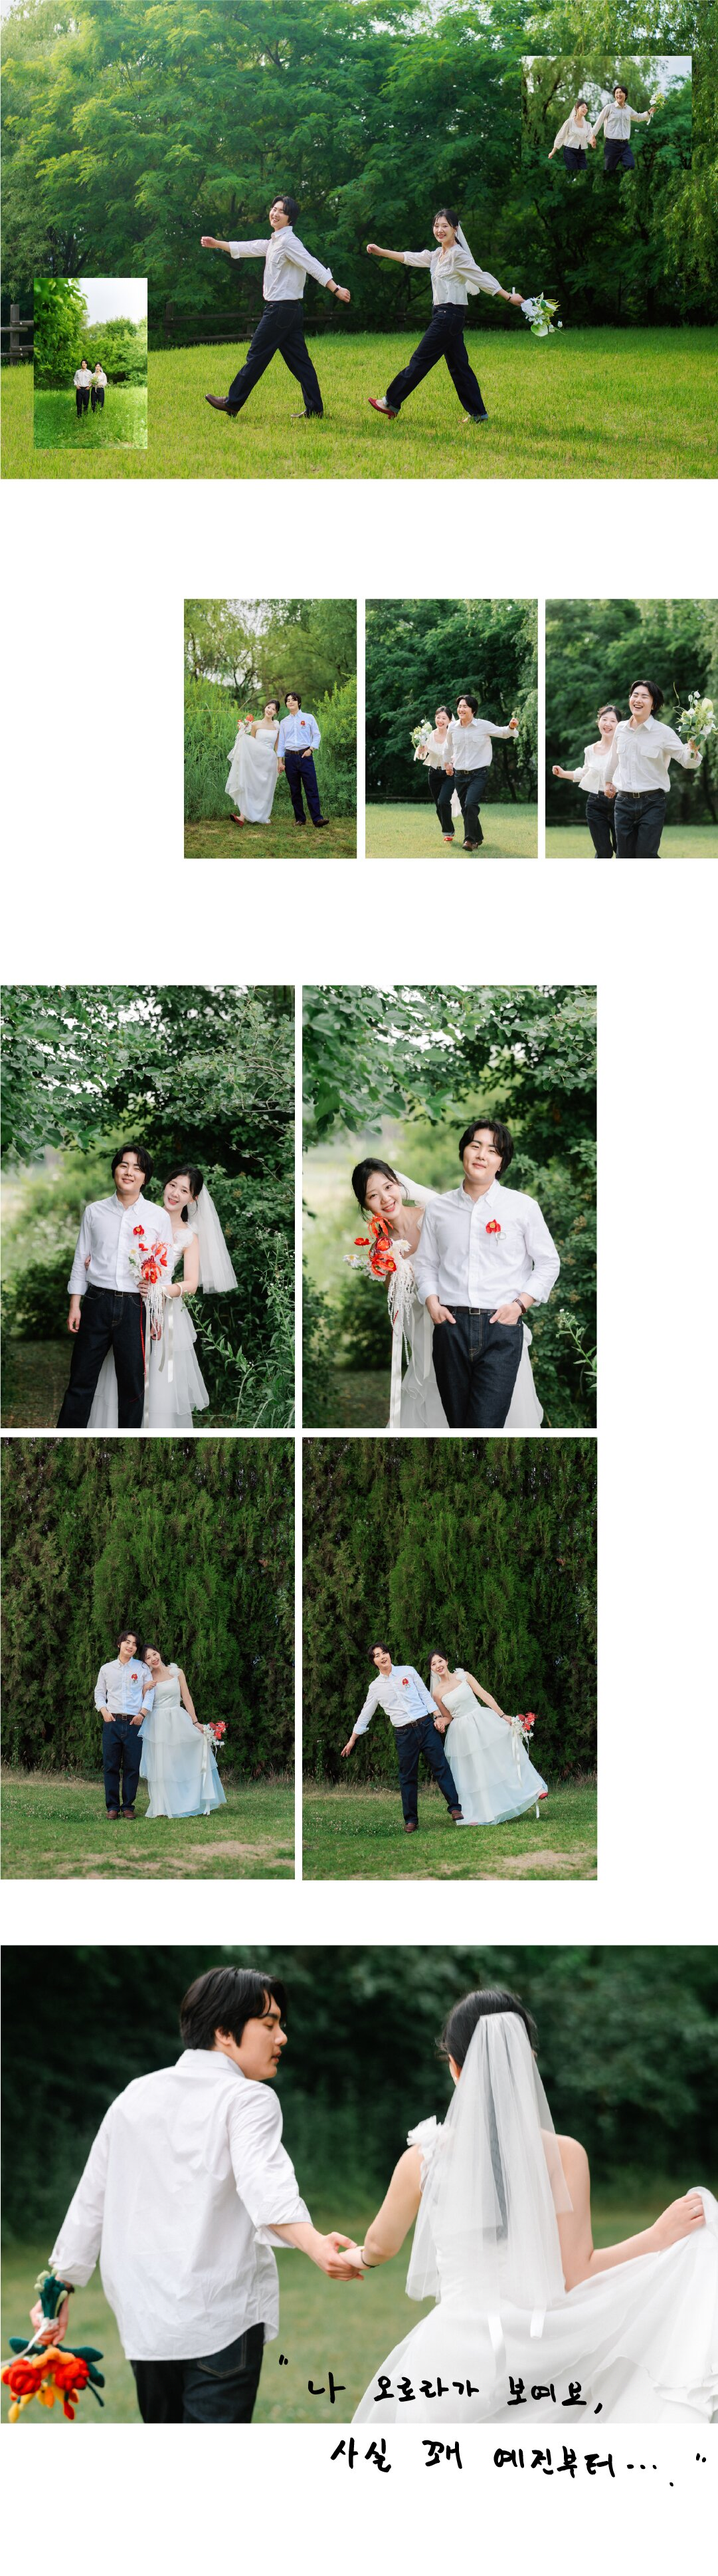
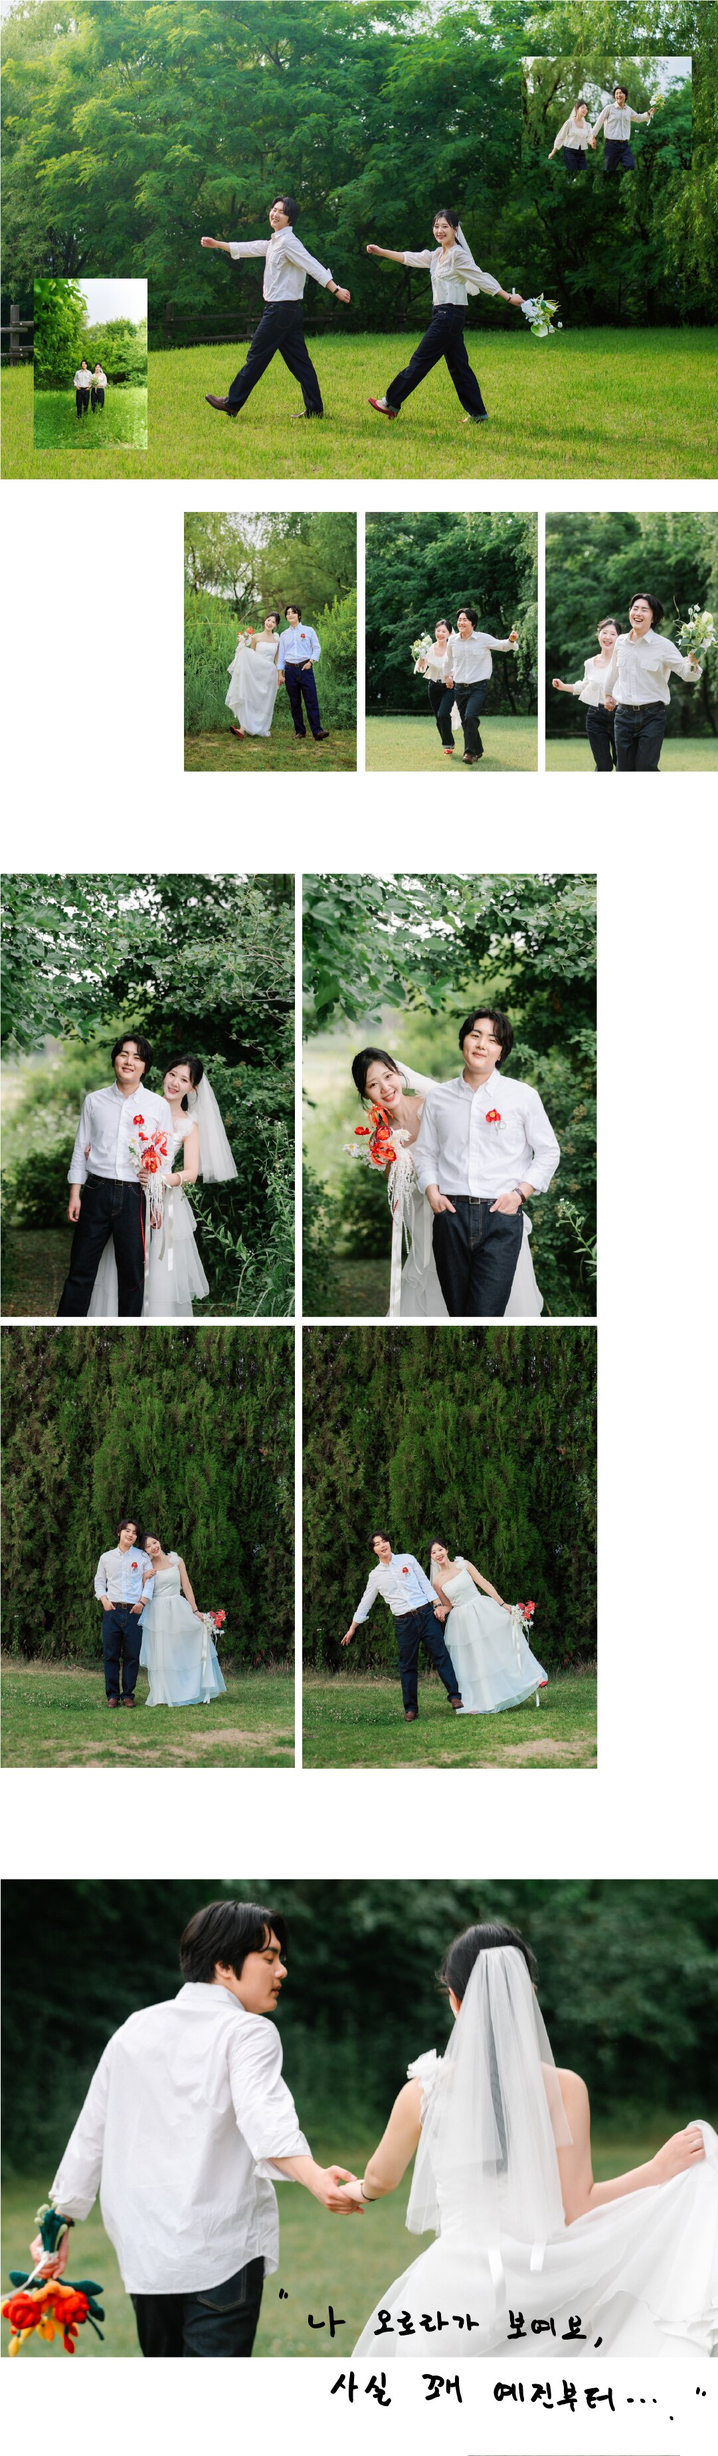
Add files via upload

diff --git a/index.html b/index.html
@@ -363,26 +363,6 @@
     color: #9e000e;
   }
 
-  /* ---------- Kakao share ---------- */
-  .share-section {
-    padding: 0 28px 40px;
-  }
-
-  .kakao-share-btn {
-    display: block;
-    width: 100%;
-    padding: 12px 0;
-    border: 1px solid #9e000e;
-    background: #9e000e;
-    color: #fff;
-    text-align: center;
-    font-size: 13px;
-    letter-spacing: 0.5px;
-    border-radius: 4px;
-    font-family: inherit;
-    cursor: pointer;
-  }
-
   .account-group {
     margin-top: 12px;
     text-align: left;
@@ -437,6 +417,7 @@
     justify-content: space-between;
     align-items: center;
     padding: 4px 4px 18px;
+    min-height: 44px;
   }
 
   .account-card .info {
@@ -451,10 +432,6 @@
     white-space: nowrap;
     overflow: hidden;
     text-overflow: ellipsis;
-  }
-
-  .account-card {
-    min-height: 44px;
   }
 
   .account-card .name {
@@ -472,6 +449,30 @@
     cursor: pointer;
     font-family: inherit;
     white-space: nowrap;
+  }
+
+  section.share-section {
+    display: block;
+    width: 100%;
+    box-sizing: border-box;
+    padding: 0 28px 40px;
+    border-bottom: none;
+  }
+
+  .kakao-share-btn {
+    display: block;
+    width: 100%;
+    box-sizing: border-box;
+    padding: 12px 0;
+    border: 1px solid #9e000e;
+    background: #9e000e;
+    color: #fff;
+    text-align: center;
+    font-size: 13px;
+    letter-spacing: 0.5px;
+    border-radius: 4px;
+    font-family: inherit;
+    cursor: pointer;
   }
 
   footer {
@@ -545,7 +546,7 @@
   <section class="img-section">
     <div class="flat-photo-wrap">
       <img src="images/intro-main.jpg" alt="정일 그리고 소연">
-      <div class="lightbox-trigger" data-photo="images/intro-main-photo.jpg" style="left:0%; top:30.10%; width:100%; height:61.95%;"></div>
+      <div class="lightbox-trigger" data-photo="images/intro-main-photo.jpg" style="left:0%; top:4%; width:100%; height:96%;"></div>
     </div>
   </section>
 
@@ -563,11 +564,11 @@
   <section class="img-section">
     <div class="flat-photo-wrap">
       <img src="images/ourstory-indoor-1.jpg" alt="Our Story 실내 1">
-      <div class="lightbox-trigger" data-photo="images/ourstory-indoor-1-photo1.jpg" style="left:13.14%; top:9.56%; width:48.29%; height:29.82%;"></div>
-      <div class="lightbox-trigger" data-photo="images/ourstory-indoor-1-photo2.jpg" style="left:58.28%; top:22.68%; width:32.93%; height:10.20%;"></div>
-      <div class="lightbox-trigger" data-photo="images/ourstory-indoor-1-photo3.jpg" style="left:58.28%; top:33.57%; width:32.93%; height:10.24%;"></div>
-      <div class="lightbox-trigger" data-photo="images/ourstory-indoor-1-photo4.jpg" style="left:58.28%; top:44.46%; width:32.93%; height:10.24%;"></div>
-      <div class="lightbox-trigger" data-photo="images/ourstory-indoor-1-photo5.jpg" style="left:0%; top:68.89%; width:100%; height:27.08%;"></div>
+      <div class="lightbox-trigger" data-photo="images/ourstory-indoor-1-photo1.jpg" style="left:13.51%; top:8.42%; width:47.18%; height:30.13%;"></div>
+      <div class="lightbox-trigger" data-photo="images/ourstory-indoor-1-photo2.jpg" style="left:62.35%; top:21.71%; width:30.62%; height:10.22%;"></div>
+      <div class="lightbox-trigger" data-photo="images/ourstory-indoor-1-photo3.jpg" style="left:62.35%; top:32.75%; width:30.62%; height:10.15%;"></div>
+      <div class="lightbox-trigger" data-photo="images/ourstory-indoor-1-photo4.jpg" style="left:62.35%; top:43.74%; width:30.62%; height:10.22%;"></div>
+      <div class="lightbox-trigger" data-photo="images/ourstory-indoor-1-photo5.jpg" style="left:0%; top:61.80%; width:100%; height:38.20%;"></div>
     </div>
   </section>
   <section class="img-section">
@@ -616,12 +617,12 @@
   <section class="img-section">
     <div class="flat-photo-wrap">
       <img src="images/ourstory-outdoor-2.jpg" alt="Our Story 야외 2">
-      <div class="lightbox-trigger" data-photo="images/ourstory-outdoor-2-photo5-2.jpg" style="left:11.01%; top:3.92%; width:59.57%; height:16.91%;"></div>
-      <div class="lightbox-trigger" data-photo="images/ourstory-outdoor-2-photo5-1.jpg" style="left:65.13%; top:1.47%; width:29.51%; height:8.38%;"></div>
-      <div class="lightbox-trigger" data-photo="images/ourstory-outdoor-2-photo6.jpg" style="left:0%; top:22.69%; width:100%; height:24.41%;"></div>
-      <div class="lightbox-trigger" data-photo="images/ourstory-outdoor-2-photo7.jpg" style="left:0%; top:51.00%; width:88.62%; height:11.15%;"></div>
-      <div class="lightbox-trigger" data-photo="images/ourstory-outdoor-2-photo8-1.jpg" style="left:20.44%; top:66.09%; width:38.30%; height:10.96%;"></div>
-      <div class="lightbox-trigger" data-photo="images/ourstory-outdoor-2-photo8-2.jpg" style="left:59.76%; top:66.09%; width:40.15%; height:10.96%;"></div>
+      <div class="lightbox-trigger" data-photo="images/ourstory-outdoor-2-photo5-2.jpg" style="left:11.01%; top:2.70%; width:59.57%; height:18.50%;"></div>
+      <div class="lightbox-trigger" data-photo="images/ourstory-outdoor-2-photo5-1.jpg" style="left:64.75%; top:0%; width:29.97%; height:9.18%;"></div>
+      <div class="lightbox-trigger" data-photo="images/ourstory-outdoor-2-photo6.jpg" style="left:0.09%; top:23.21%; width:99.91%; height:26.73%;"></div>
+      <div class="lightbox-trigger" data-photo="images/ourstory-outdoor-2-photo7.jpg" style="left:0%; top:52.97%; width:88.71%; height:12.23%;"></div>
+      <div class="lightbox-trigger" data-photo="images/ourstory-outdoor-2-photo8-1.jpg" style="left:20.44%; top:67.64%; width:38.76%; height:12.04%;"></div>
+      <div class="lightbox-trigger" data-photo="images/ourstory-outdoor-2-photo8-2.jpg" style="left:61.24%; top:67.64%; width:38.76%; height:12.04%;"></div>
     </div>
   </section>
 
@@ -681,7 +682,6 @@
           <button class="copy-btn" data-copy="762902-01-300351">복사하기</button>
         </div>
       </div>
-    </div>
     </div>
   </section>
 
